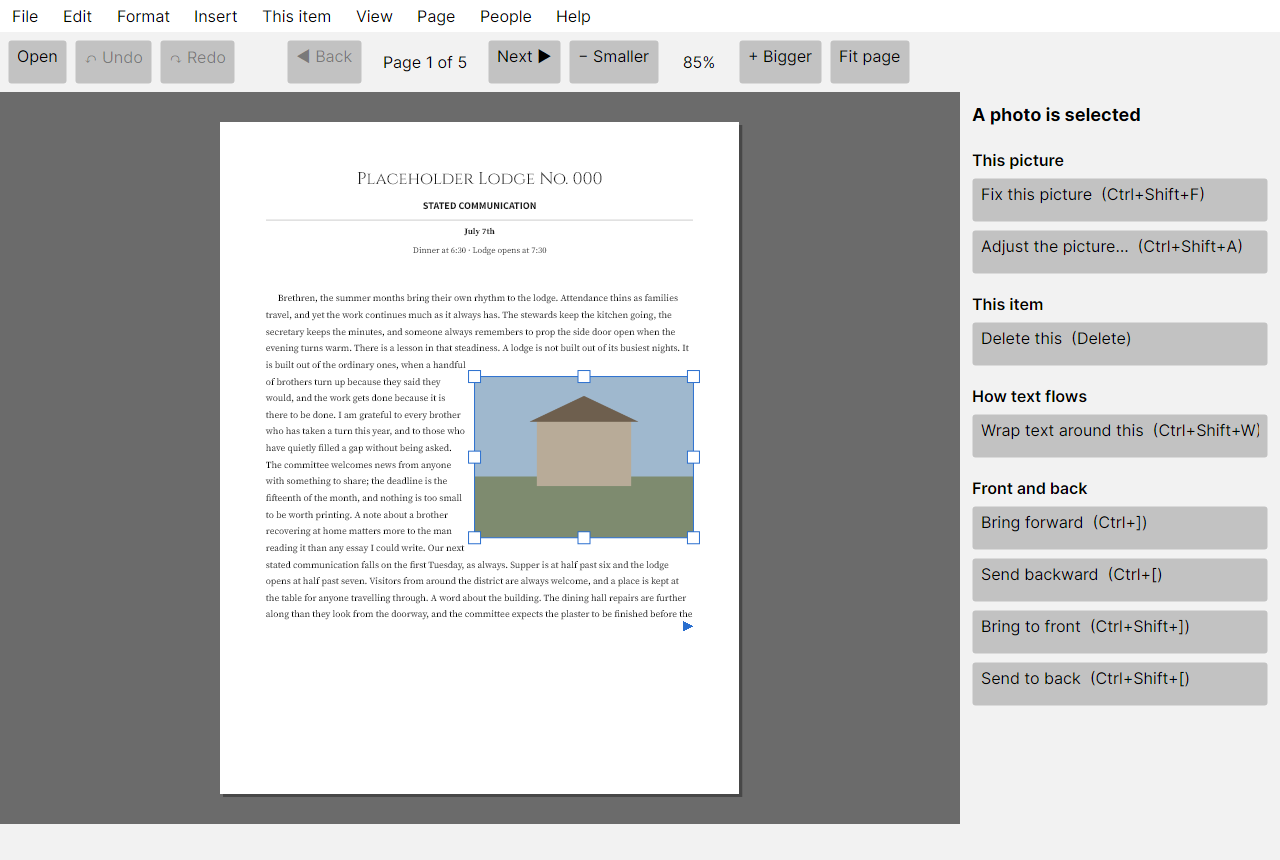
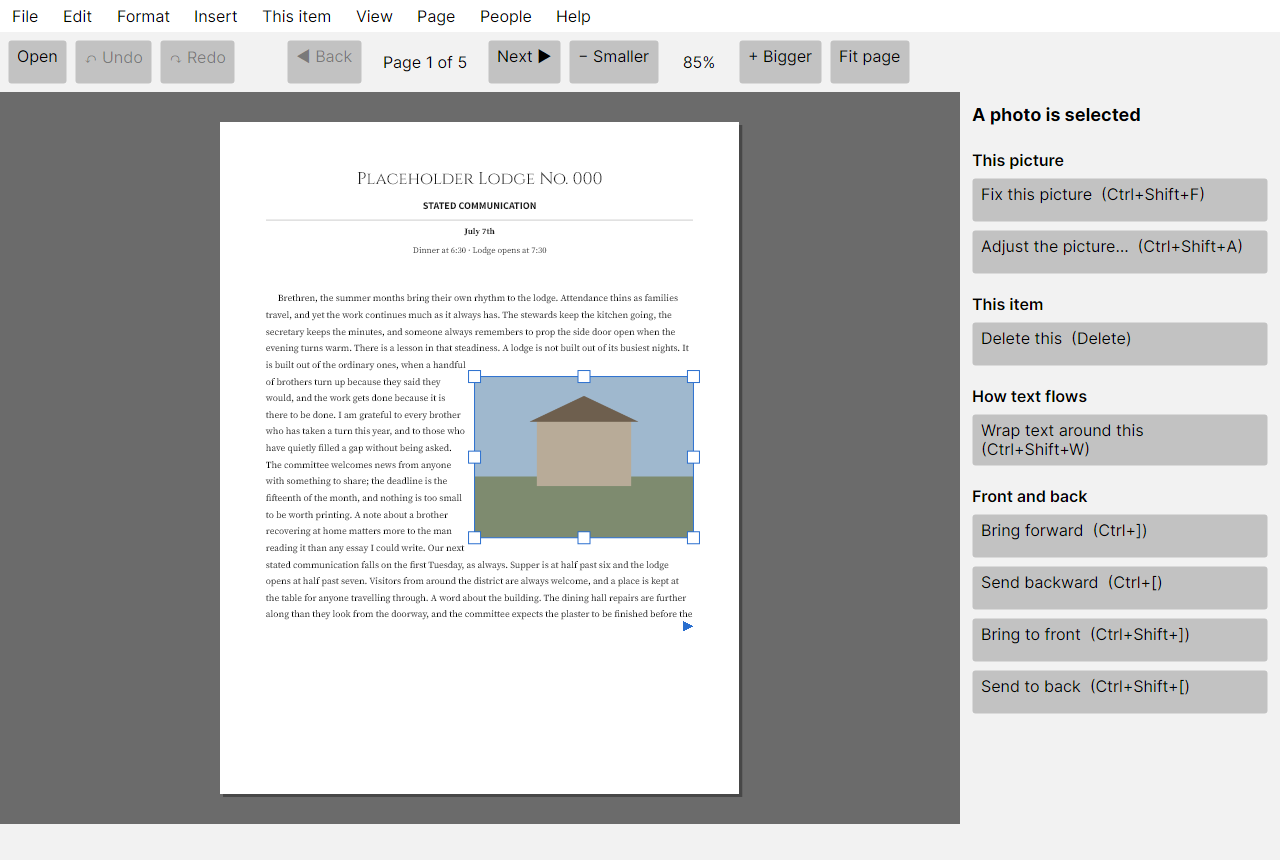
fix(ui): two clipped-chrome defects the M15 screenshots exposed
The action panel clipped long button labels with their shortcut, so
"Wrap text around this  (Ctrl+Shift+W)" ran off the panel's fixed 320px
width and ended mid-shortcut. A Button's default content presenter does
not wrap, so panel buttons now carry a wrapping TextBlock, built by one
PanelButton factory shared by the offer rows and the "What's next" card.
ActionPanel.LabelOf reads the label back for the audit tests, which
previously cast Content to string. A half-readable shortcut is worse
than none: the user cannot tell which key it ends in.

WidgetGridWindow's docked button bar appeared to overlap the last visible
row. The layout was already right - a DockPanel with the ScrollViewer
filling - but the bar had no background of its own, so the row the
scroller clipped read as being sat on rather than scrolled past. The bar
is now a Border carrying SystemControlBackgroundChromeMediumLowBrush by
reference, matching the toolbar and status bar, so it stays correct when
High Contrast swaps the brush out.

Both are App chrome only and re-bake no snapshot baseline, which is what
makes them safe to close without opening a milestone. The four affected
screenshots were regenerated with --only; two of them changed bytes.
PLAN.md section 13 and docs/M15-spec.md section 9 record the closures and
say plainly why the third defect - the quote / body-italic attribute
collision - stays open: its fix moves rendered pixels and needs baselines
re-baked on all three operating systems.
[…]

Changed region(s): [[0.75, 0.4837, 1.0, 0.8465]]

diff --git a/src/TrestleBoard.App/Actions/ActionPanel.cs b/src/TrestleBoard.App/Actions/ActionPanel.cs
@@ -64,6 +64,22 @@ internal sealed class ActionPanel : Border
     /// <summary>The panel's heading, which is also what a screen reader announces on a selection change.</summary>
     internal string HeadingForTest => _heading.Text ?? string.Empty;
 
+    /// <summary>
+    /// The label a panel button carries. Buttons hold a wrapping <see cref="TextBlock"/> rather
+    /// than a bare string, so a long title with its shortcut ("Wrap text around this
+    /// (Ctrl+Shift+W)") runs onto a second line instead of being clipped by the 320px panel.
+    /// </summary>
+    internal static string LabelOf(Button button)
+    {
+        ArgumentNullException.ThrowIfNull(button);
+        return button.Content switch
+        {
+            TextBlock text => text.Text ?? string.Empty,
+            string s => s,
+            _ => string.Empty,
+        };
+    }
+
     /// <summary>Every button currently offered, for the audit tests.</summary>
     internal IReadOnlyList<Button> ButtonsForTest =>
         _content.Children.OfType<Button>().Concat(
@@ -134,6 +150,21 @@ internal sealed class ActionPanel : Border
         }
     }
 
+    /// <summary>
+    /// One full-width panel button. The label is a wrapping <see cref="TextBlock"/>: a button's
+    /// default presenter does not wrap, so "Wrap text around this  (Ctrl+Shift+W)" was clipped
+    /// mid-shortcut against the panel's fixed 320px width, and a shortcut you can only half read
+    /// is worse than none.
+    /// </summary>
+    private static Button PanelButton(string label) => new()
+    {
+        Content = new TextBlock { Text = label, TextWrapping = TextWrapping.Wrap },
+        FontSize = 16,
+        MinHeight = 44,
+        HorizontalAlignment = HorizontalAlignment.Stretch,
+        HorizontalContentAlignment = HorizontalAlignment.Left,
+    };
+
     private static TextBlock GroupHeading(string text) => new()
     {
         Text = text,
@@ -150,14 +181,7 @@ internal sealed class ActionPanel : Border
     private static Control BuildOffer(ActionOffer offer, Action<string, Control?> invoke)
     {
         string gesture = offer.Action.DisplayGesture is { } g ? $"  ({g})" : string.Empty;
-        var button = new Button
-        {
-            Content = offer.Action.Title + gesture,
-            FontSize = 16,
-            MinHeight = 44,
-            HorizontalAlignment = HorizontalAlignment.Stretch,
-            HorizontalContentAlignment = HorizontalAlignment.Left,
-        };
+        Button button = PanelButton(offer.Action.Title + gesture);
         AutomationProperties.SetName(button, offer.Action.Title);
         AutomationProperties.SetHelpText(
             button,
@@ -203,14 +227,7 @@ internal sealed class ActionPanel : Border
 
             if (step.ActionId is { } actionId)
             {
-                var button = new Button
-                {
-                    Content = step.Title,
-                    FontSize = 16,
-                    MinHeight = 44,
-                    HorizontalAlignment = HorizontalAlignment.Stretch,
-                    HorizontalContentAlignment = HorizontalAlignment.Left,
-                };
+                Button button = PanelButton(step.Title);
                 AutomationProperties.SetName(button, step.Title);
                 AutomationProperties.SetHelpText(button, step.Why);
                 button.Click += (_, _) => invoke(actionId, button);

diff --git a/src/TrestleBoard.App/Dialogs/WidgetGridWindow.cs b/src/TrestleBoard.App/Dialogs/WidgetGridWindow.cs
@@ -1,6 +1,7 @@
 using Avalonia.Automation;
 using Avalonia.Controls;
 using Avalonia.Layout;
+using Avalonia.Markup.Xaml.MarkupExtensions;
 using Avalonia.Media;
 using TrestleBoard.Widgets.Wizards;
 
@@ -70,15 +71,7 @@ public sealed class WidgetGridWindow : Window
                         _errorPanel,
                     },
                 },
-                new StackPanel
-                {
-                    [DockPanel.DockProperty] = Dock.Bottom,
-                    Orientation = Orientation.Horizontal,
-                    Spacing = 12,
-                    HorizontalAlignment = HorizontalAlignment.Right,
-                    Margin = new Avalonia.Thickness(24, 12, 24, 24),
-                    Children = { cancel, save },
-                },
+                ButtonBar(cancel, save),
                 new ScrollViewer
                 {
                     VerticalScrollBarVisibility = Avalonia.Controls.Primitives.ScrollBarVisibility.Auto,
@@ -88,6 +81,33 @@ public sealed class WidgetGridWindow : Window
         };
 
         Opened += (_, _) => Render();
+    }
+
+    /// <summary>
+    /// Save and Cancel, on a shaded band of their own. The band is not decoration: the scrolling
+    /// list is clipped wherever the bar begins, and without a background behind the buttons the
+    /// half-cut row underneath read as though the bar were sitting on top of it.
+    /// </summary>
+    private static Border ButtonBar(Button cancel, Button save)
+    {
+        var bar = new Border
+        {
+            [DockPanel.DockProperty] = Dock.Bottom,
+            Padding = new Avalonia.Thickness(24, 12, 24, 24),
+            Child = new StackPanel
+            {
+                Orientation = Orientation.Horizontal,
+                Spacing = 12,
+                HorizontalAlignment = HorizontalAlignment.Right,
+                Children = { cancel, save },
+            },
+        };
+
+        // By reference, like the toolbar and status bar: High Contrast swaps the brush out and a
+        // hard-coded colour would survive the swap and stop meeting the contrast rule.
+        bar[!BackgroundProperty] =
+            new DynamicResourceExtension("SystemControlBackgroundChromeMediumLowBrush");
+        return bar;
     }
 
     public bool Confirmed { get; private set; }

diff --git a/tests/App.HeadlessTests/ActionSurfaceTests.cs b/tests/App.HeadlessTests/ActionSurfaceTests.cs
@@ -1,6 +1,7 @@
 using Avalonia.Controls;
 using Avalonia.Headless;
 using Avalonia.LogicalTree;
+using TrestleBoard.App.Actions;
 using TrestleBoard.Editing.Actions;
 using Xunit;
 
@@ -41,7 +42,7 @@ public sealed class ActionSurfaceTests
                 {
                     if (!button.IsEnabled)
                     {
-                        greyed.Add($"{window.PanelForTest.HeadingForTest}: {button.Content}");
+                        greyed.Add($"{window.PanelForTest.HeadingForTest}: {ActionPanel.LabelOf(button)}");
                     }
                 }
             }
@@ -208,7 +209,7 @@ public sealed class ActionSurfaceTests
 
             Assert.Contains(steps, s => s.ActionId == ActionId.ExportPdf);
             Assert.Contains(steps, s => s.Why.Contains("remind you", StringComparison.Ordinal));
-            Assert.Contains(window.PanelForTest.ButtonsForTest, b => (b.Content as string) == "Export the PDF");
+            Assert.Contains(window.PanelForTest.ButtonsForTest, b => ActionPanel.LabelOf(b) == "Export the PDF");
 
             window.Close();
         }, TestContext.Current.CancellationToken);
@@ -232,8 +233,8 @@ public sealed class ActionSurfaceTests
             Assert.NotEmpty(buttons);
             Assert.All(buttons, b =>
             {
-                Assert.True(b.Focusable, $"{b.Content} cannot take focus");
-                Assert.True(b.IsTabStop, $"{b.Content} is not in the tab order");
+                Assert.True(b.Focusable, $"{ActionPanel.LabelOf(b)} cannot take focus");
+                Assert.True(b.IsTabStop, $"{ActionPanel.LabelOf(b)} is not in the tab order");
             });
 
             window.CanvasForTest.Focus();

diff --git a/PLAN.md b/PLAN.md
@@ -1285,11 +1285,21 @@ unscheduled *by decision* — treat starting one as needing the owner's word fir
 - [!] **The real-world test** (§12 item 4): recreate the July 2026 issue in the app and have a
       committee member compare it against `Examples/July 2026.pdf` side by side. Needs the user.
 
-Three known defects are recorded but deliberately unscheduled, because closing them means opening a
-milestone rather than finishing one: the `quote` / `body-italic` attribute collision
-(`docs/M14-spec.md` §11 — pre-existing, exposed rather than caused, cheap to fix by giving `quote` a
-distinguishing size); the action panel clipping long button labels with their shortcut; and
-`WidgetGridWindow`'s docked button bar overlapping the last visible row (both `docs/M15-spec.md` §9).
+Of the three known defects recorded here, **the two cosmetic ones are fixed (2026-07-27)** — they
+turned out to be App-only chrome fixes that re-bake no snapshot baseline, so closing them opened no
+milestone after all:
+
+- [x] **The action panel clipped long button labels with their shortcut.** Panel buttons now carry a
+      wrapping `TextBlock` rather than a bare string; `ActionPanel.LabelOf` reads the label back for
+      the audit tests. `docs/M15-spec.md` §9.
+- [x] **`WidgetGridWindow`'s docked button bar appeared to overlap the last visible row.** The bar is
+      now a shaded `Border` using the same themed brush as the toolbar and status bar, so the
+      scroller's clip reads as a footer. `docs/M15-spec.md` §9.
+
+The third stays unscheduled and needs the owner's word, because it is the one that genuinely opens a
+milestone: the `quote` / `body-italic` attribute collision (`docs/M14-spec.md` §11 — pre-existing,
+exposed rather than caused, cheap to fix by giving `quote` a distinguishing size, but the fix moves
+rendered pixels and therefore needs snapshot baselines re-baked on all three operating systems).
 
 ## Flagged uncertainties (verify early, all covered by M1/M3 spikes)
 - SkiaSharp 3.x `SKShaper`/HarfBuzzSharp packaging and PDF text-embedding behavior → M1.

diff --git a/docs/M15-spec.md b/docs/M15-spec.md
@@ -219,6 +219,17 @@ README says so plainly instead, which makes the gap visible rather than merely a
   elderly users is actively harmful.*
 - The shots show **Windows chrome**, deliberately: this audience installs on Windows
   overwhelmingly, and mixing operating-system chrome across one README looks broken.
-- Two cosmetic things the shots make visible in the app itself, neither in this milestone's scope:
-  the action panel clips long button labels with their shortcut ("Change what this says…
-  (Ctrl+Shift+…"), and `WidgetGridWindow`'s docked button bar overlaps the last visible row.
+- Two cosmetic things the shots made visible in the app itself, neither in this milestone's scope
+  when it shipped — **both fixed 2026-07-27**, and the four affected images regenerated with
+  `--only`:
+  - The action panel clipped long button labels with their shortcut ("Wrap text around this
+    (Ctrl+Shift+W)" ran off the 320px panel). A button's default content presenter does not wrap,
+    so panel buttons now carry a wrapping `TextBlock` instead of a bare string, built by one
+    `ActionPanel.PanelButton` factory. `ActionPanel.LabelOf` reads the label back for the audit
+    tests, which previously cast `Content` to `string`. A half-readable shortcut is worse than
+    none — the user cannot tell which key it ends in.
+  - `WidgetGridWindow`'s docked button bar appeared to overlap the last visible row. The layout was
+    right — a `DockPanel` with the `ScrollViewer` filling — but the bar had no background, so the
+    row the scroller clipped read as being sat on. The bar is now a `Border` carrying
+    `SystemControlBackgroundChromeMediumLowBrush` by reference, matching the toolbar and status
+    bar, so the clip reads as a footer and stays correct in High Contrast.
